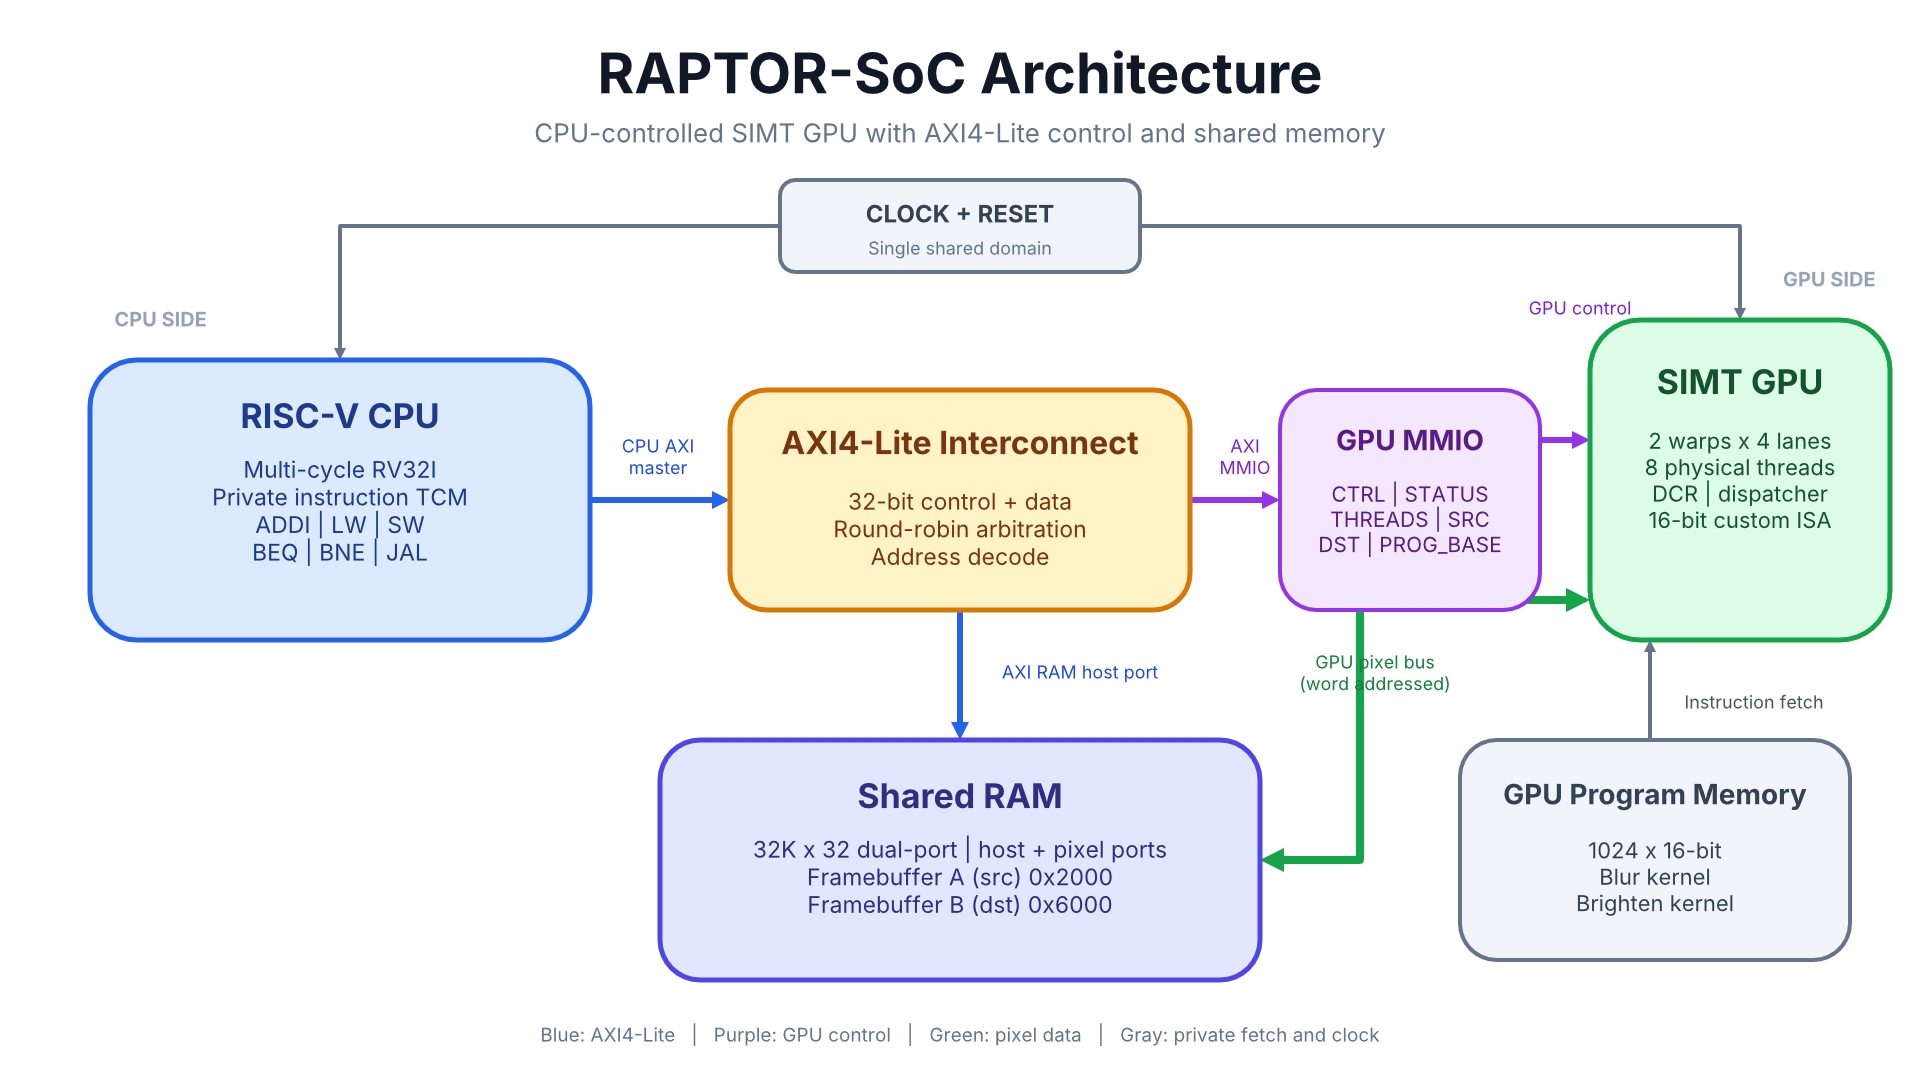
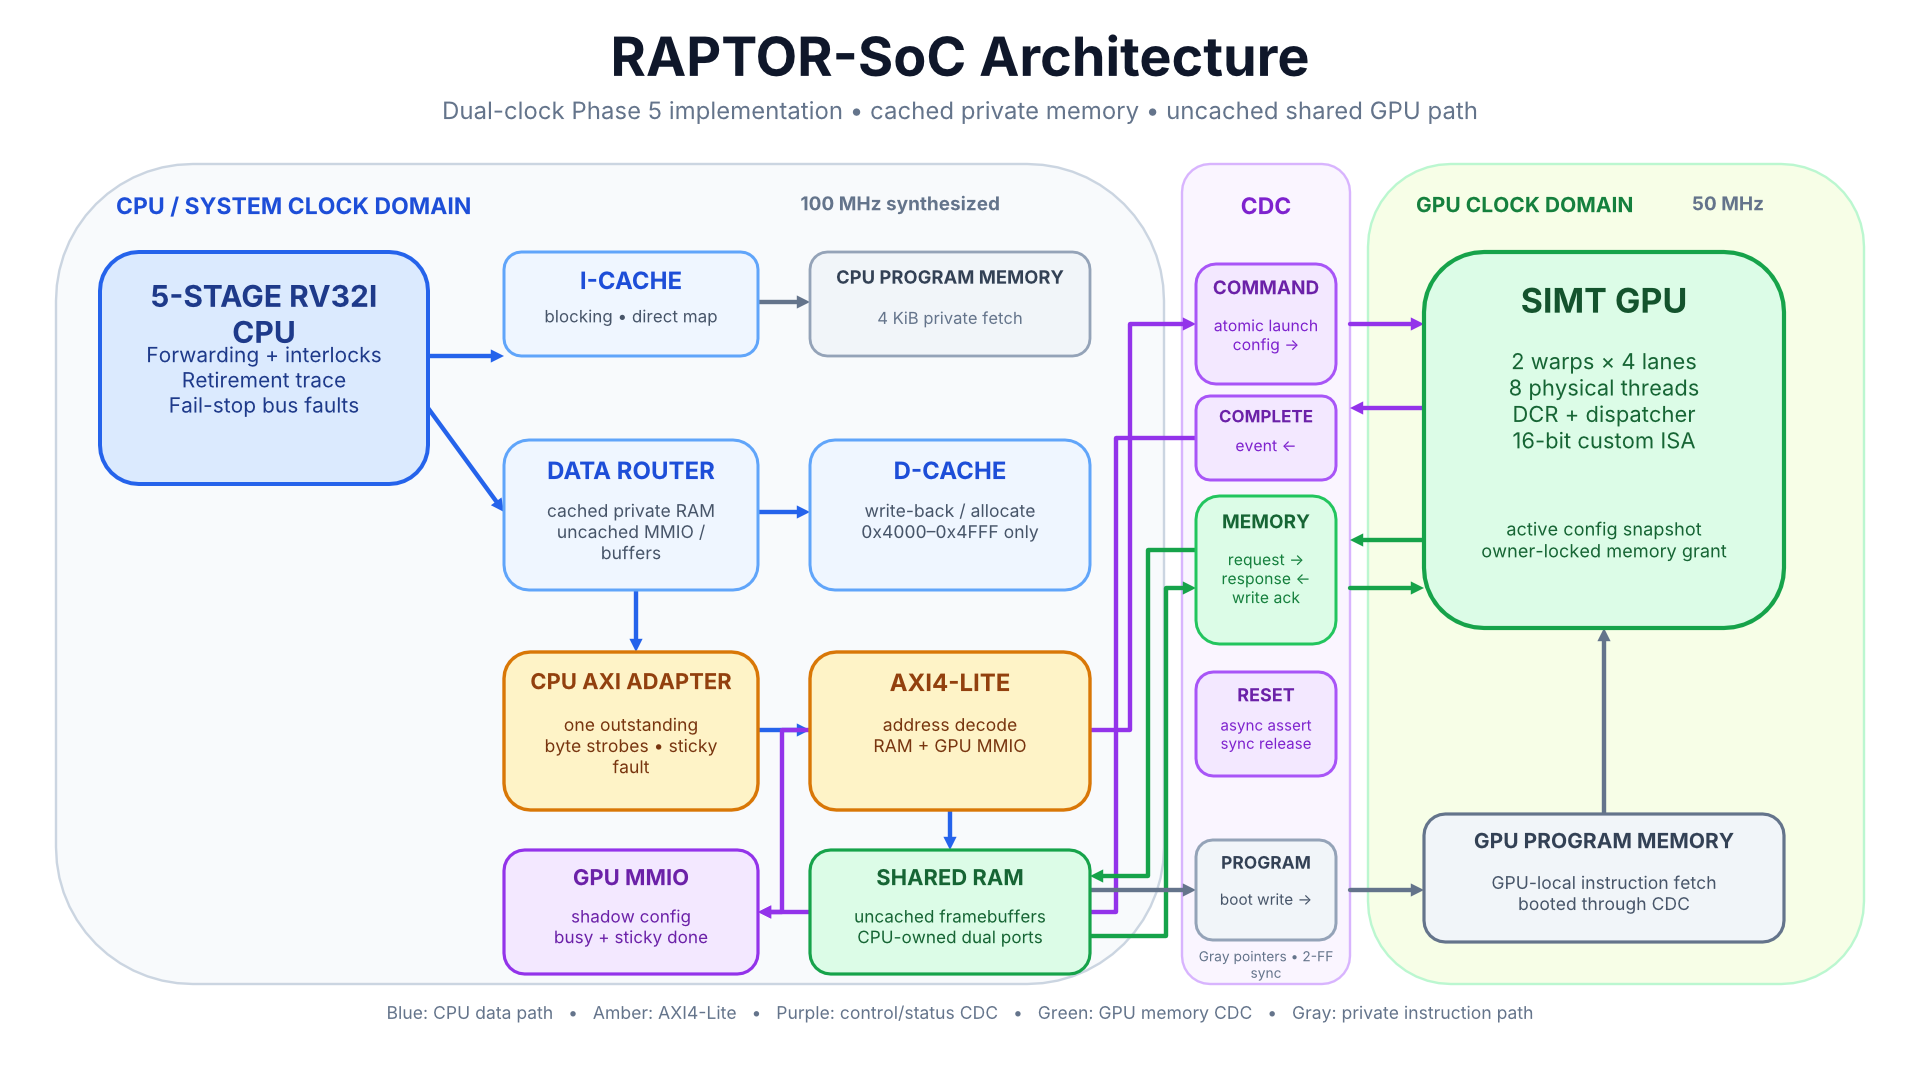
docs: update Phase 5 architecture diagram

diff --git a/README.md b/README.md
@@ -20,6 +20,10 @@ The CPU configures and launches GPU programs, then polls for completion.
 The current workload is a two-pass, clamped 3×3 image blur.
 The integration top is `soc_phase5_top`.
 
+<p align="center">
+  <img src="docs/assets/raptor-soc-architecture-deckcraft.png" alt="RAPTOR-SoC dual-clock architecture" width="100%">
+</p>
+
 ## Verification
 
 The complete Verilator regression passes, including **31 SoC configurations** with independent clocks, stalls, clock pauses, and reset recovery.
